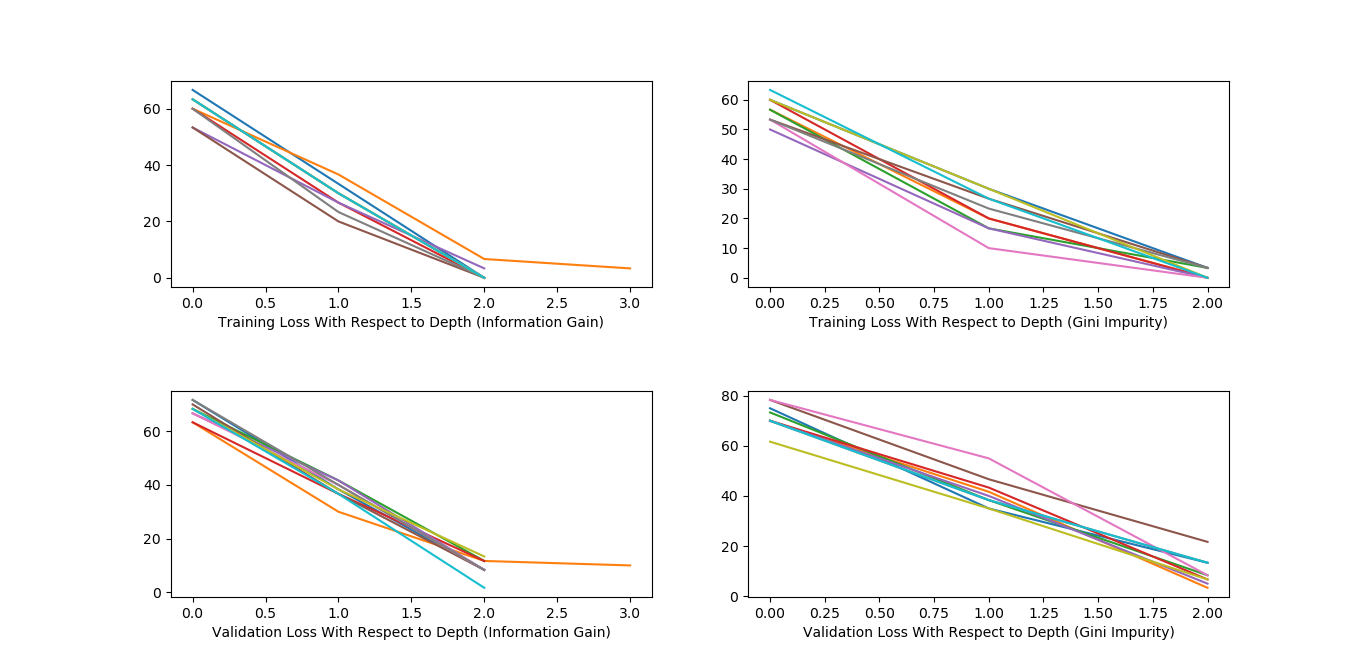
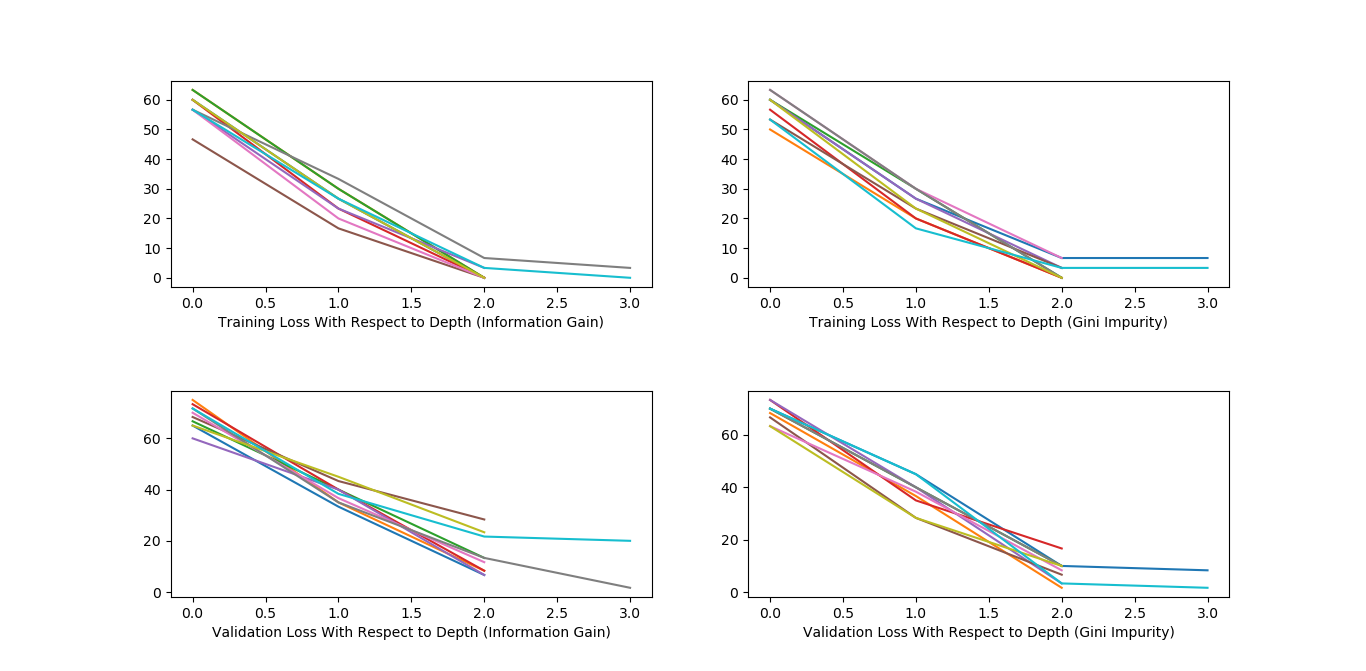
Refactored the code and added comments

diff --git a/decision_tree.py b/decision_tree.py
@@ -21,25 +21,28 @@ def main():
 		training_data, validation_data, test_data = shuffleAndSplitToTrainingValidationTest(data)
 		decision_tree = DecisionTree(training_data, validation_data, test_data, EntropyCalculator.calculateEntropyWithInformationGainFormula)
 		decision_trees_with_information_gain.append(decision_tree)
-	# 10 times with information gini impurity formula
+	# 10 times with gini impurity formula
 	decision_trees_with_gini_impurity = []
 	for i in range(ITERATION_COUNT):
 		training_data, validation_data, test_data = shuffleAndSplitToTrainingValidationTest(data)
 		decision_tree = DecisionTree(training_data, validation_data, test_data, EntropyCalculator.calculateEntropyWithGiniImpurityFormula)
 		decision_trees_with_gini_impurity.append(decision_tree)
+	# report the results
 	OutputUtility.reportLossInTestSet(decision_trees_with_information_gain, decision_trees_with_gini_impurity)
 	OutputUtility.reportMeanAndVariancesOfLosses(decision_trees_with_information_gain, decision_trees_with_gini_impurity)
 	OutputUtility.plotLossRates(decision_trees_with_information_gain, decision_trees_with_gini_impurity)
 
+# reads the data and convert it to Datum objects
 def readData():
 	data = []
 	with open(DATA_FILE, "r") as f:
 		for line in f.read().splitlines():
-			row = line.split(',')
-			if len(row) > 1: # if not an empty line
+			if len(line) > 1: # if not an empty line
+				row = line.split(',')
 				data.append(Datum([float(num) for num in row[:-1]], row[-1]))
 	return data
 
+# Split the data into training(20%), validation(40%), and test (40%)
 def shuffleAndSplitToTrainingValidationTest(data):
 	random.shuffle(data)
 	tenpercent_n = len(data) // 10
@@ -62,6 +65,8 @@ class DecisionTree:
 		self.root = DecisionTreeNode(training_data[:])
 		self.buildTree()
 
+	# Build the tree in bfs order
+	# If the splitting is not rational with respect to validation data then it starts to stop the splittings
 	def buildTree(self):
 		current_error_rate = self.computeValidationError()
 		q = collections.deque()
@@ -69,13 +74,14 @@ class DecisionTree:
 		while q:
 			self.training_loss_of_depths.append(self.computeTrainingError())
 			self.validation_loss_of_depths.append(self.computeValidationError())
+			# do layer by layer traversel since I am also interested in the loss rates of layers
 			level_size = len(q)
 			for i in range(level_size):
 				node = q.popleft()
 				if node.isSuitableToSplit():
 					param_index, param_value = self.findBestSplit(node.data)
 					node.split_param_index, node.split_param_value = param_index, param_value
-					left_data, right_data = self.computeSplitWithAttributeAndValue(node.data, param_index, param_value)
+					left_data, right_data = self.splitWithAttributeAndValue(node.data, param_index, param_value)
 					node.left, node.right = DecisionTreeNode(left_data), DecisionTreeNode(right_data)
 					new_error_rate = self.computeValidationError()
 					if new_error_rate < current_error_rate: # We can hold the split
@@ -85,7 +91,7 @@ class DecisionTree:
 					else: # The split is not rational because error rate has increased
 						node.left, node.right = None, None # Recover children
 
-
+	# Finds the best split paramater and it's value which gives min entropy
 	def findBestSplit(self, data):
 		#print([vars(datum) for datum in data])
 		best_entropy = 999
@@ -93,7 +99,7 @@ class DecisionTree:
 		best_param_value = None
 		for param_index in range(len(data[0].params)):
 			for datum in data:
-				left_data, right_data = self.computeSplitWithAttributeAndValue(data, param_index, datum.params[param_index])
+				left_data, right_data = self.splitWithAttributeAndValue(data, param_index, datum.params[param_index])
 				entropy = self.computeEntropyAfterSplitting(left_data, right_data)
 				if entropy < best_entropy:
 					best_entropy = entropy
@@ -101,7 +107,8 @@ class DecisionTree:
 					best_param_value = datum.params[param_index]
 		return (best_param_index, best_param_value)
 
-	def computeSplitWithAttributeAndValue(self, data, param_index, param_value):
+	# Split the data into two parts with respect to the given splitting point
+	def splitWithAttributeAndValue(self, data, param_index, param_value):
 		left_data = []
 		right_data = []
 		for datum in data:
@@ -111,6 +118,7 @@ class DecisionTree:
 				right_data.append(datum)
 		return (left_data, right_data)
 
+	# Compute the average entropy of left and right data
 	def computeEntropyAfterSplitting(self, left_data, right_data):
 		left_entropy = self.entropy_calculator_function(left_data)
 		right_entropy = self.entropy_calculator_function(right_data)
@@ -123,7 +131,7 @@ class DecisionTree:
 	def computeTrainingError(self):
 		return DecisionTreeEvaluator.computeErrorPercentage(self.root, self.training_data)
 
-
+# An extended Binary Tree Node to be used in the decision tree
 class DecisionTreeNode:
 	def __init__(self, data):
 		self.data = data
@@ -132,20 +140,23 @@ class DecisionTreeNode:
 		self.right = None
 		self.split_param_index = None
 		self.split_param_value = None 
-		
+	
+	# Returns the class that is most frequent in the data of node	
 	def findPluratiyClass(self):
 		classes = [datum.classs for datum in self.data]
 		return max(set(classes), key = classes.count)
 
+	# The node is suitable to split if it has at least two nodes and has different class datums
 	def isSuitableToSplit(self):
-		return len(self.data) > 2 and len(set([datum.classs for datum in self.data])) > 1
+		return len(self.data) >= 2 and len(set([datum.classs for datum in self.data])) > 1
 
-
+# Object representation of datums
 class Datum:
 	def __init__(self, params, classs):
 		self.params = params
 		self.classs = classs
 
+# Utility function to compute the errors, predict the result, etc by using a decision tree
 class DecisionTreeEvaluator:
 	@staticmethod
 	def computeErrorPercentage(decision_tree_root, data):
@@ -168,6 +179,8 @@ class DecisionTreeEvaluator:
 				current_node = current_node.right
 		return current_node.pluratiy_class
 
+# This module contains two different entropy calculation formulas, which are:
+# Information Gain and Gini Impurity
 class EntropyCalculator:
 	@staticmethod
 	def calculateEntropyWithInformationGainFormula(data):
@@ -193,6 +206,8 @@ class EntropyCalculator:
 			entropy -= proportion * proportion
 		return entropy
 
+# This module contains utility functions to print and plot the necessary outputs, such as:
+# Loss rates of iteration, mean and variance of test data losses, and plots of loss rates with respect to decision tree depth
 class OutputUtility:
 	@staticmethod
 	def reportLossInTestSet(decision_trees_with_information_gain, decision_trees_with_gini_impurity):
